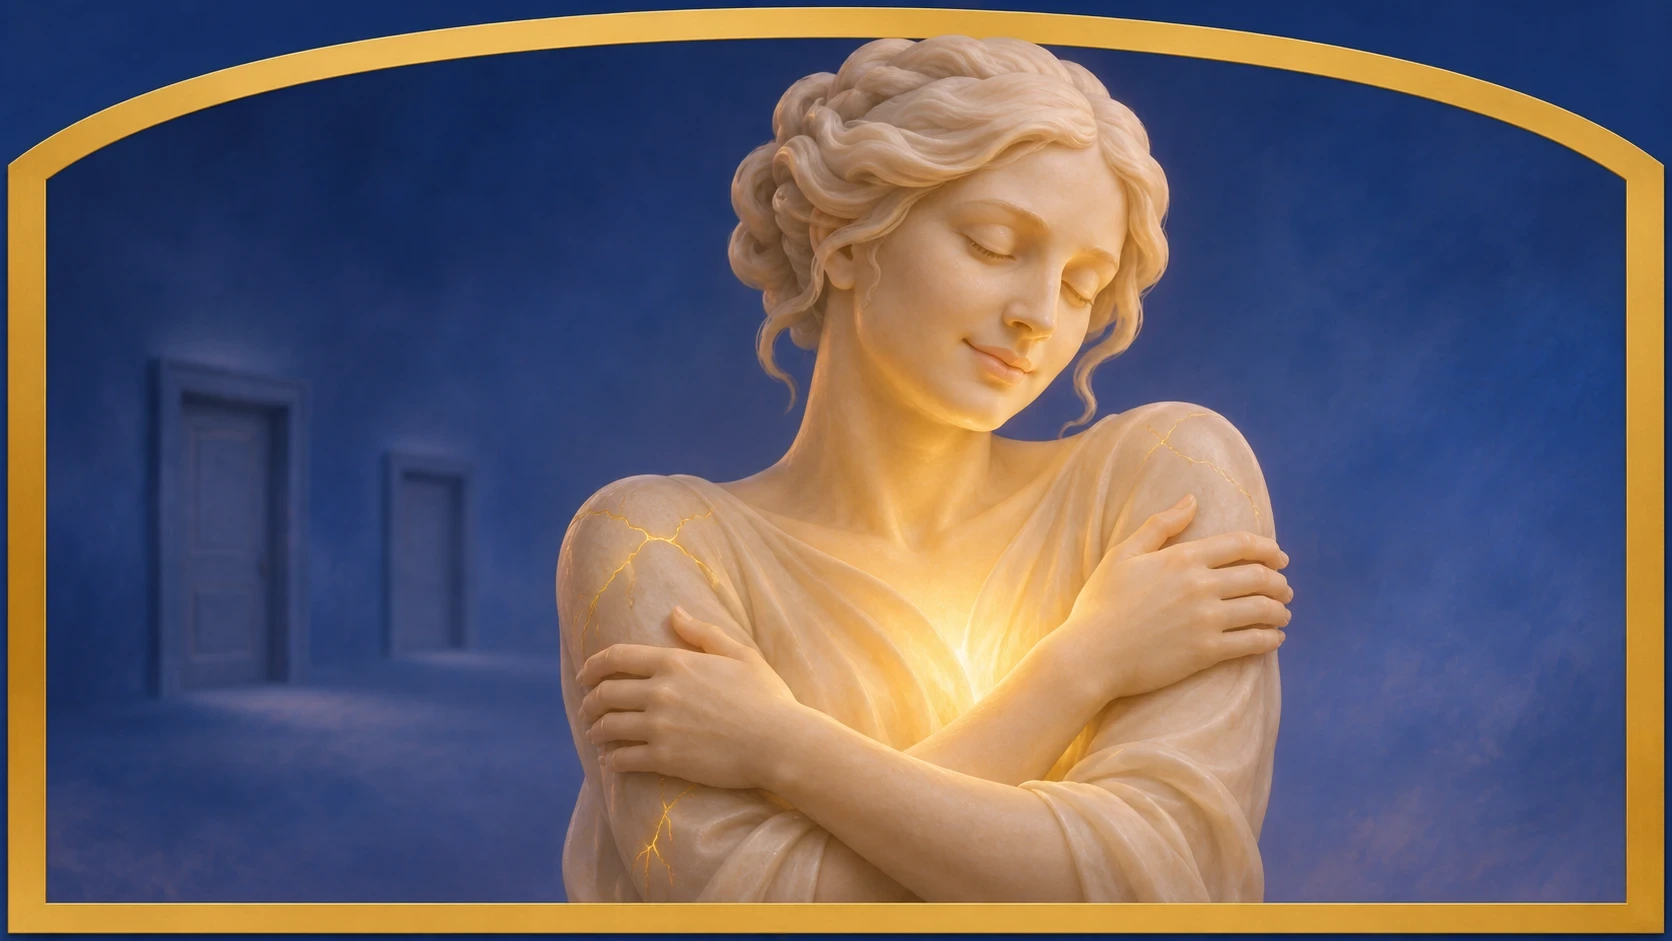
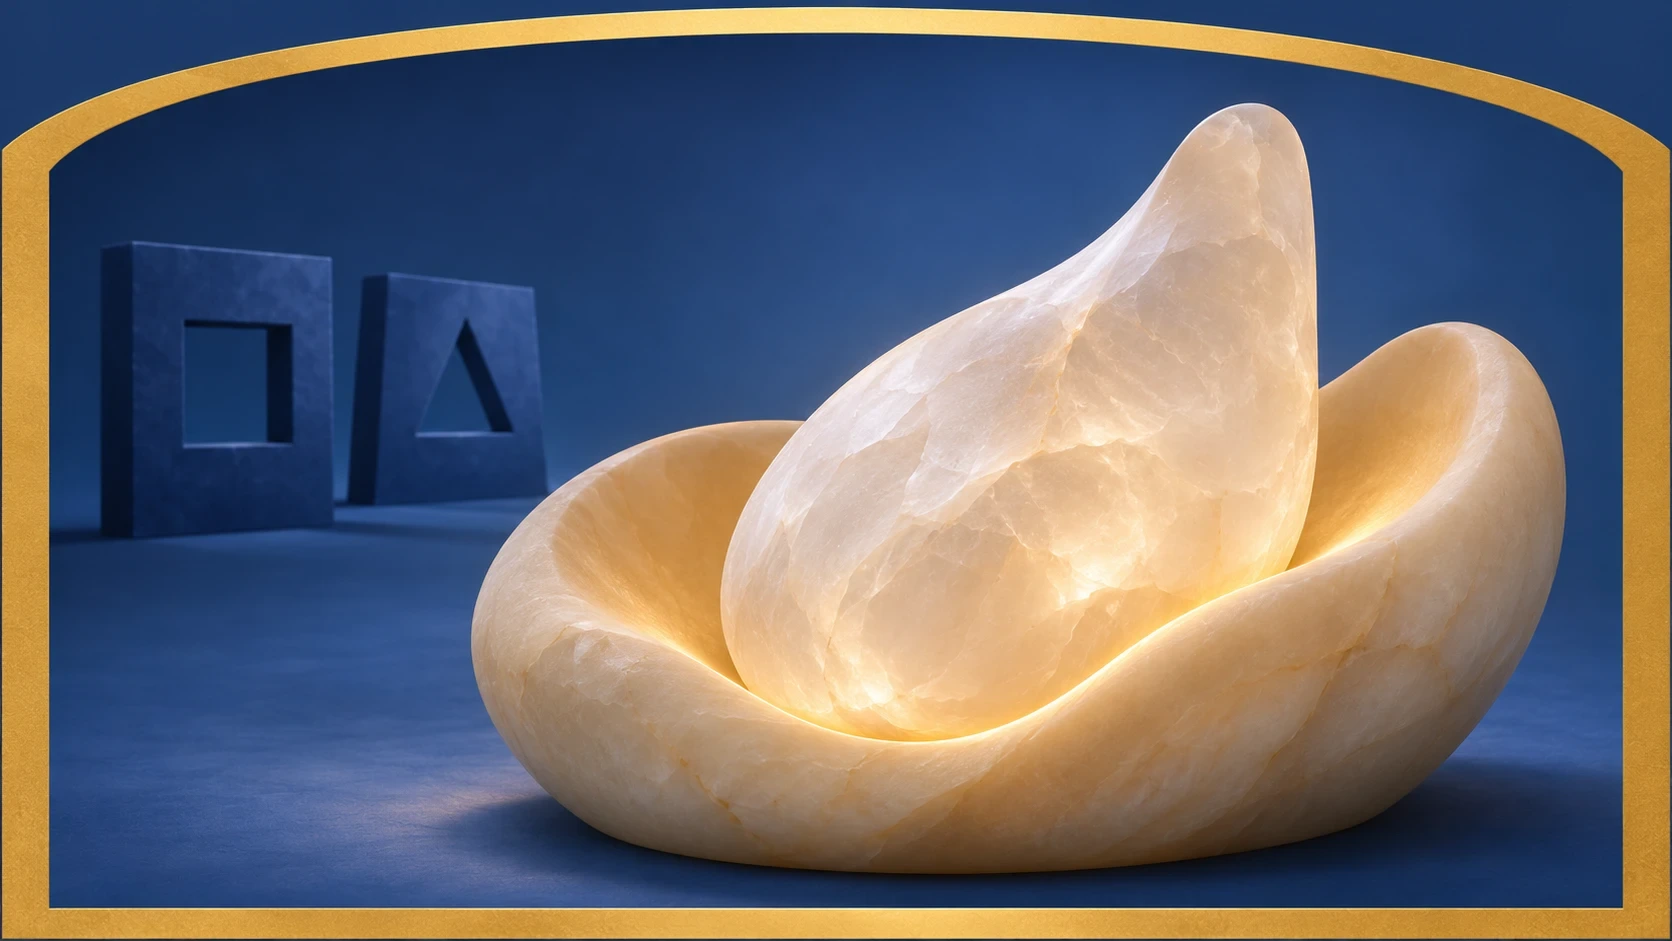
Decoding light of acceptance: switch to abstract cover
Claude-Session: https://claude.ai/code/session_01A132x5ytCNuR6agf1Xcpkr

diff --git a/docs/image-prompts-covers.md b/docs/image-prompts-covers.md
@@ -15,7 +15,7 @@
 | عين صاحية (كورس الامتنان) | إطار ذهبي على شكل عين مفتوحة يطل على فجر ذهبي + كأس كريستال يفيض بالنور + مسبحة لؤلؤ ✅ |
 | تمرين فك التعلّق | سيف من نور يقطع حبلاً معقوداً حول كرة نور فوق ماء هادئ ✅ |
 | Decoding النسخة الأصلية | وجوه منحوتة زرقاء متشققة تنفتح كطبقات لتكشف وجهاً مضيئاً من نور ✅ |
-| Decoding نور القبول | تمثال يحتضن نفسه بشقوق ذهبية وقلب مضيء وأبواب مغلقة خلفه ✅ (البديل محفوظ: brand/photos/cover-decode-acceptance-alt.webp) |
+| Decoding نور القبول | حجر مضيء يستقر في مهد يحتضن شكله، وخلفه قوالب بفتحات مربعة ومثلثة لم يكن يناسبها ✅ (البديل: تمثال يحتضن نفسه، محفوظ في brand/photos/cover-decode-acceptance-alt.webp) |
 
 ## ١ — عين صاحية (كورس الامتنان)
 ```
